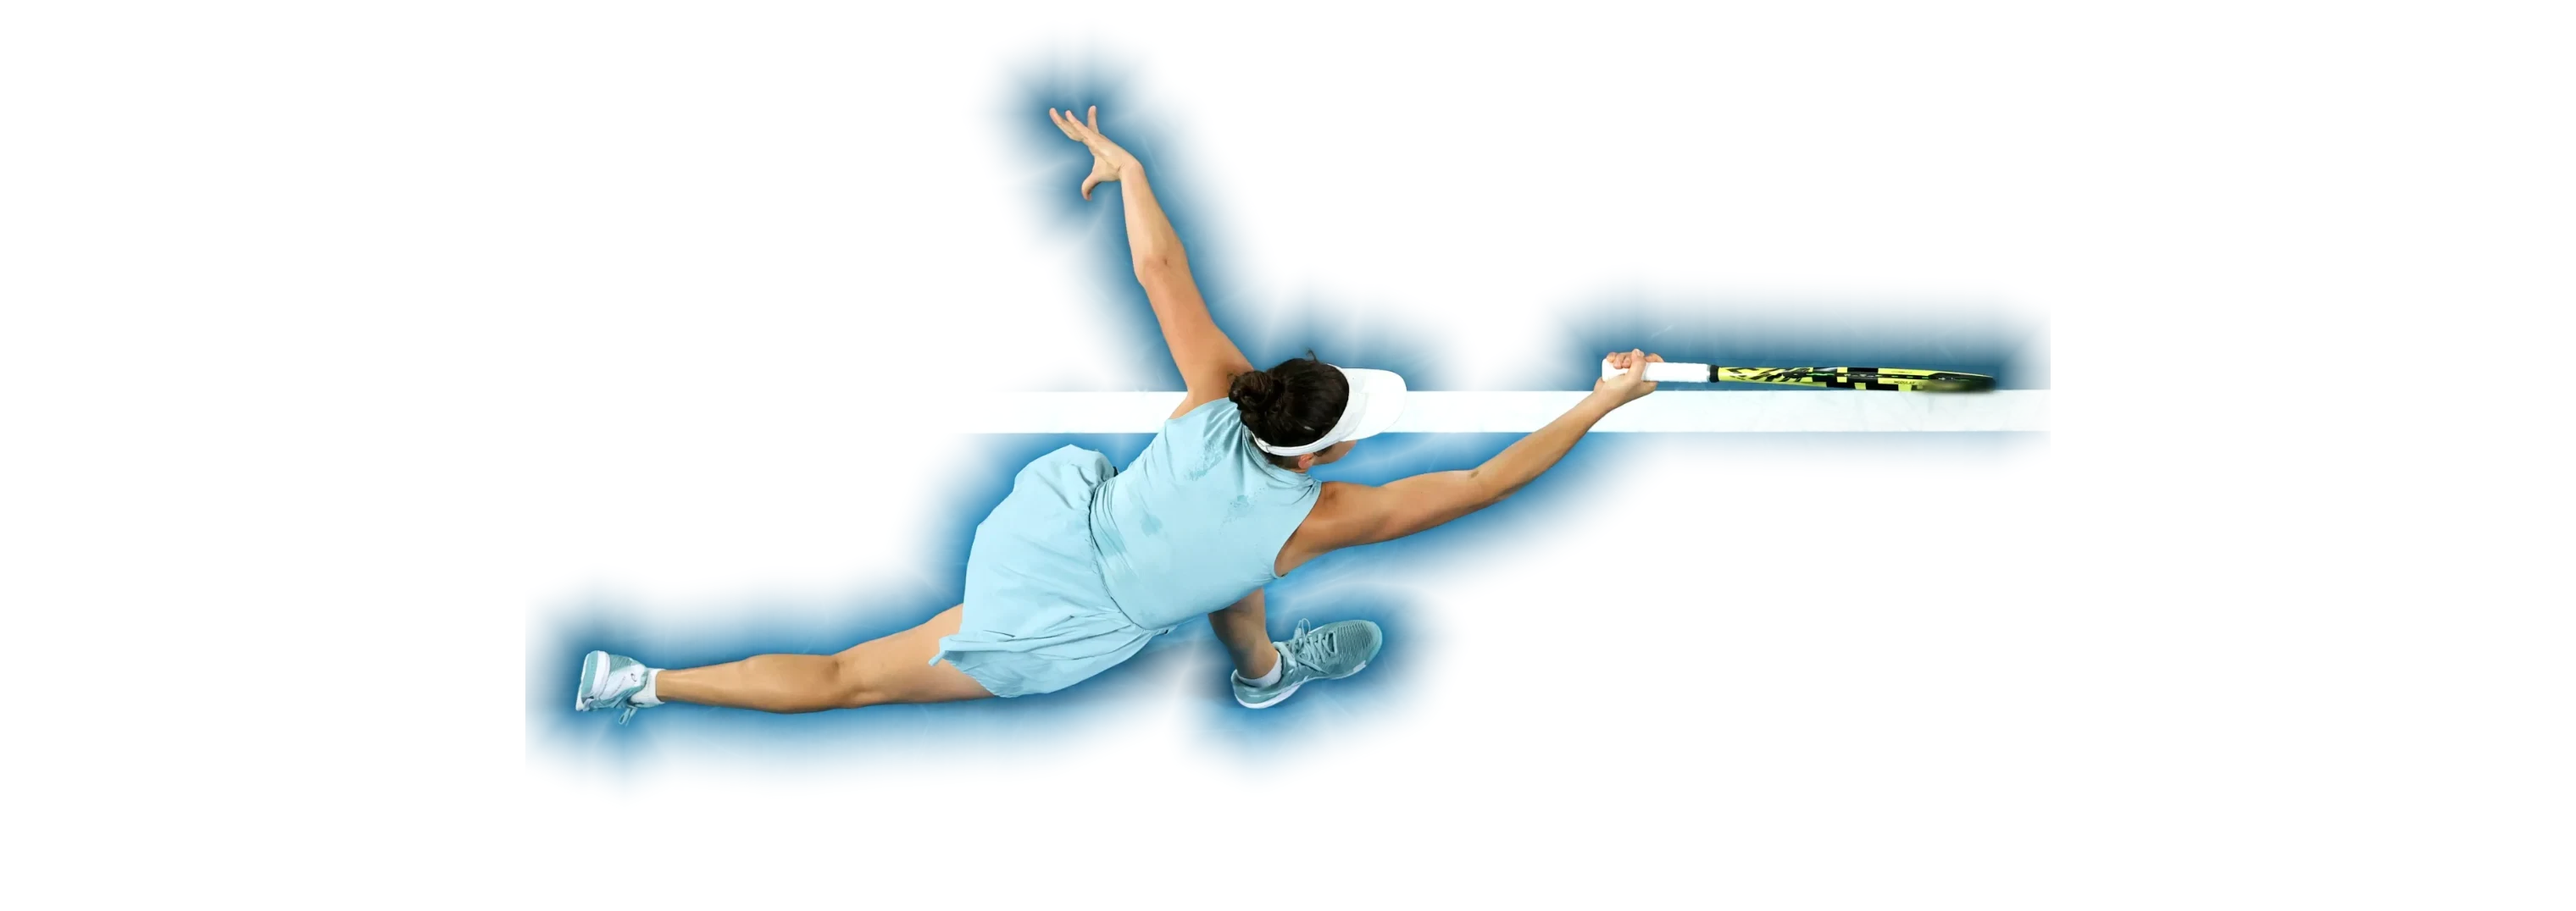
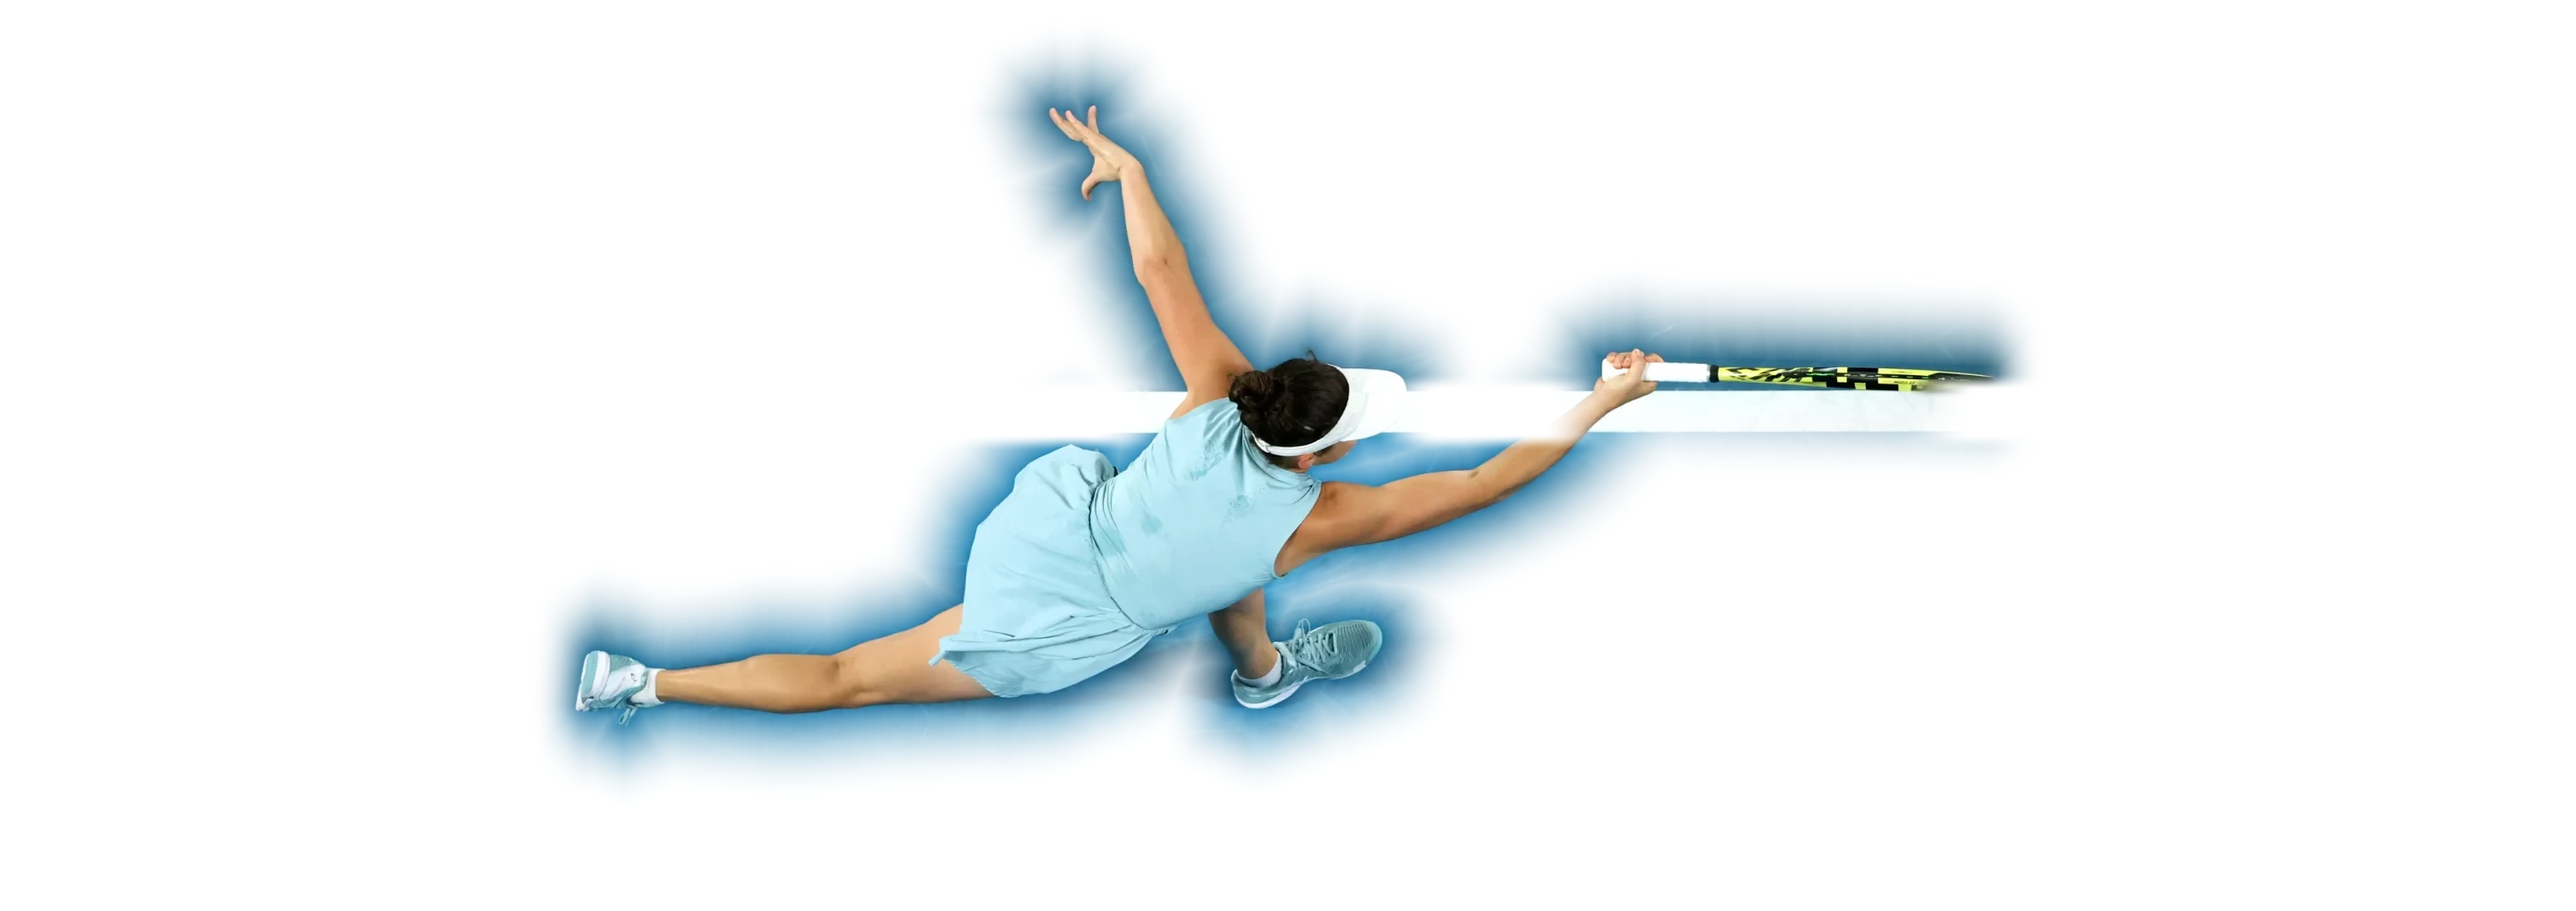
Lab Report top box: seams of the widened tennis photo blended and the cutout's straight edges feathered; About: dog photo runs to the top of Recycle The Box, About The Brand and Recycle The Box get equal 40px above and below
Claude-Session: https://claude.ai/code/session_011mpYY9rYUSQ2MHdXj7DwCc

diff --git a/index.html b/index.html
@@ -5477,7 +5477,7 @@ html body div[data-screen-label="About"][data-screen-label="About"][data-screen-
 }
 
 </style>
-<style id="about-tighten-nov8">@media (min-width:768px){html body [data-screen-label="About"] section[data-m="about-brand"][data-m="about-brand"][data-m="about-brand"][data-m="about-brand"][data-m="about-brand"],html body [data-screen-label="About"] section[data-m="about-compost"][data-m="about-compost"][data-m="about-compost"][data-m="about-compost"]{padding-top:22px !important}html body [data-screen-label="About"] section[data-m="shasta"][data-m="shasta"][data-m="shasta"][data-m="shasta"],html body [data-screen-label="About"] section[data-m="about-brand"][data-m="about-brand"][data-m="about-brand"][data-m="about-brand"][data-m="about-brand"][data-m="about-brand"]{padding-bottom:0 !important}html body div[data-screen-label="About"] section[data-m] p.ab-brand-k.gd-dash.gd-dash::before,html body div[data-screen-label="About"] section[data-m] p.ab-brand-k.gd-dash.gd-dash::after{content:"" !important;display:inline-block !important;width:22px !important;height:2px !important;background:#D4A24A !important;vertical-align:middle !important;position:relative;top:-.08em}html body div[data-screen-label="About"] section[data-m] p.ab-brand-k.gd-dash.gd-dash::before{margin-right:14px !important}html body div[data-screen-label="About"] section[data-m] p.ab-brand-k.gd-dash.gd-dash::after{margin-left:14px !important}}</style><style id="about-compost-dogs">@media (min-width:768px){html body [data-screen-label="About"] section[data-m="about-compost"] .cmp-box{aspect-ratio:1800/886;box-sizing:border-box}html body [data-screen-label="About"] section[data-m="about-compost"]{margin-bottom:82px !important}}</style><script src="about-photos.js?v=55"></script>
+<style id="about-tighten-nov8">/* Nov 8 (Scott): About The Brand and Recycle The Box each have the same black above the heading as below the box (40px) */@media (min-width:768px){html body [data-screen-label="About"] section[data-m="about-brand"][data-m="about-brand"][data-m="about-brand"][data-m="about-brand"][data-m="about-brand"]{padding-top:41px !important}html body div[data-screen-label="About"] section[data-m="about-compost"][data-m="about-compost"][data-m="about-compost"]:not(.z1):not(.z2):not(.z3):not(.z4):not(.z5):not(.z6):not(.z7):not(.z8):not(.z9):not(.z10):not(.z11):not(.z12):not(.z13):not(.z14):not(.z15){padding-top:41px !important}html body [data-screen-label="About"] section[data-m="shasta"][data-m="shasta"][data-m="shasta"][data-m="shasta"],html body [data-screen-label="About"] section[data-m="about-brand"][data-m="about-brand"][data-m="about-brand"][data-m="about-brand"][data-m="about-brand"][data-m="about-brand"]{padding-bottom:0 !important}html body div[data-screen-label="About"] section[data-m] p.ab-brand-k.gd-dash.gd-dash::before,html body div[data-screen-label="About"] section[data-m] p.ab-brand-k.gd-dash.gd-dash::after{content:"" !important;display:inline-block !important;width:22px !important;height:2px !important;background:#D4A24A !important;vertical-align:middle !important;position:relative;top:-.08em}html body div[data-screen-label="About"] section[data-m] p.ab-brand-k.gd-dash.gd-dash::before{margin-right:14px !important}html body div[data-screen-label="About"] section[data-m] p.ab-brand-k.gd-dash.gd-dash::after{margin-left:14px !important}}</style><style id="about-compost-dogs">@media (min-width:768px){html body [data-screen-label="About"] section[data-m="about-compost"] .cmp-box{aspect-ratio:1800/886;box-sizing:border-box}html body [data-screen-label="About"] section[data-m="about-compost"]{margin-bottom:-18px !important}}</style><script src="about-photos.js?v=56"></script>
 <style id="shop-rc-oct15c">@keyframes rcxTennisOn{from{opacity:0;filter:brightness(.8)}to{opacity:1;filter:brightness(1.12) saturate(1.15) drop-shadow(0 0 10px rgba(255,214,150,.45))}}
 </style>
 <style id="how-dive-oct15c">
@@ -5503,7 +5503,7 @@ html body div[data-screen-label="Home — hero"],html body section[data-m="hero"
 }</style>
 <style id="footer-field-oct15">@media (min-width:768px){html body footer{background:linear-gradient(rgba(6,6,5,.35) 0,rgba(6,6,5,.35) 150px,#060605 200px),url("assets/pattern-field-bold.svg") center top/33px auto repeat-x,#060605 !important}}html body footer div[style*="pattern-field-bold"]{-webkit-mask-image:none !important;mask-image:none !important}</style>
 <style>@media (min-width:768px){html body div[data-screen-label="Receipts"][data-screen-label="Receipts"]>section:first-of-type:not(.zz):not(.zy):not(.zx):not(.zw):not(.zv){height:auto !important;max-height:none !important;min-height:0 !important;overflow:visible !important;padding-bottom:40px !important}}</style>
-<style>@media (min-width:768px){html body div[data-screen-label="Receipts"][data-screen-label="Receipts"]>section:first-of-type::before{top:8px !important;height:560px !important;left:8px !important;right:8px !important;transform-origin:50% 50% !important;background:url("assets/cutouts/receipts-tennis-wide-cutout.webp") center 50%/cover no-repeat !important;clip-path:inset(3.2% round 22px) !important}html body div[data-screen-label="Receipts"][data-screen-label="Receipts"]>section:first-of-type::after{background:linear-gradient(rgba(0,0,0,.3),rgba(0,0,0,.45)),url("assets/photo/receipts-tennis-wide.jpg") center 50%/cover no-repeat !important}}</style>
+<style>@media (min-width:768px){html body div[data-screen-label="Receipts"][data-screen-label="Receipts"]>section:first-of-type::before{top:8px !important;height:560px !important;left:8px !important;right:8px !important;transform-origin:50% 50% !important;background:url("assets/cutouts/receipts-tennis-wide-cutout.webp?v=2") center 50%/cover no-repeat !important;clip-path:inset(3.2% round 22px) !important}html body div[data-screen-label="Receipts"][data-screen-label="Receipts"]>section:first-of-type::after{background:linear-gradient(rgba(0,0,0,.3),rgba(0,0,0,.45)),url("assets/photo/receipts-tennis-wide.jpg?v=2") center 50%/cover no-repeat !important}}</style>
 <style id="rc-onebox-oct15">@media (min-width:768px){
 html body div[data-screen-label="Receipts"] p[data-m="rc-lot-i"]{display:none !important}
 html body div[data-screen-label="Receipts"] [data-m="rc-lot"]{margin-top:14px !important}

diff --git a/about-photos.js b/about-photos.js
@@ -81,7 +81,7 @@
       });
     }
     var bb = A.querySelector('.ab-brand-box:not(.cmp-box)'); if (bb) photo(bb, 'own-scott-wildman.jpg', 'center 40%', .6);   // Scott, the wild man in his backyard, behind About The Brand
-    var cb = A.querySelector('.cmp-box'); if (cb) photo(cb, innerWidth >= 768 ? 'about-three-dogs-wide.jpg' : 'own-two-labs-hill.jpg', innerWidth >= 768 ? 'center 34px' : 'center 30%', .5, innerWidth >= 768 ? '34px' : 0);   // Nov 8 (Scott): desktop, the photo sits a little lower so Buddy's head has room; the top fades from black   // Oct 17: desktop zoomed all the way out, sides filled softly, no black bars   // Oct 16 (Scott): his two labs on the hill, towel painted out; one photo, never a collage   // Oct 15 (night): phone, all three dogs, one above the other to fit the tall box   // phone: the two labs, all heads in   // all three dogs in one photo
+    var cb = A.querySelector('.cmp-box'); if (cb) photo(cb, innerWidth >= 768 ? 'about-three-dogs-wide.jpg' : 'own-two-labs-hill.jpg', innerWidth >= 768 ? 'center top' : 'center 30%', .5, 0);   // Nov 8 (Scott, later): desktop, the photo runs to the very top of the box, no black above Buddy's head   // Oct 17: desktop zoomed all the way out, sides filled softly, no black bars   // Oct 16 (Scott): his two labs on the hill, towel painted out; one photo, never a collage   // Oct 15 (night): phone, all three dogs, one above the other to fit the tall box   // phone: the two labs, all heads in   // all three dogs in one photo
     var cs = A.querySelector('section[data-m="about-compost"]');
     if (cs) {
       // white (cream) behind the compost box and on down behind the spinning seal; short fades only
